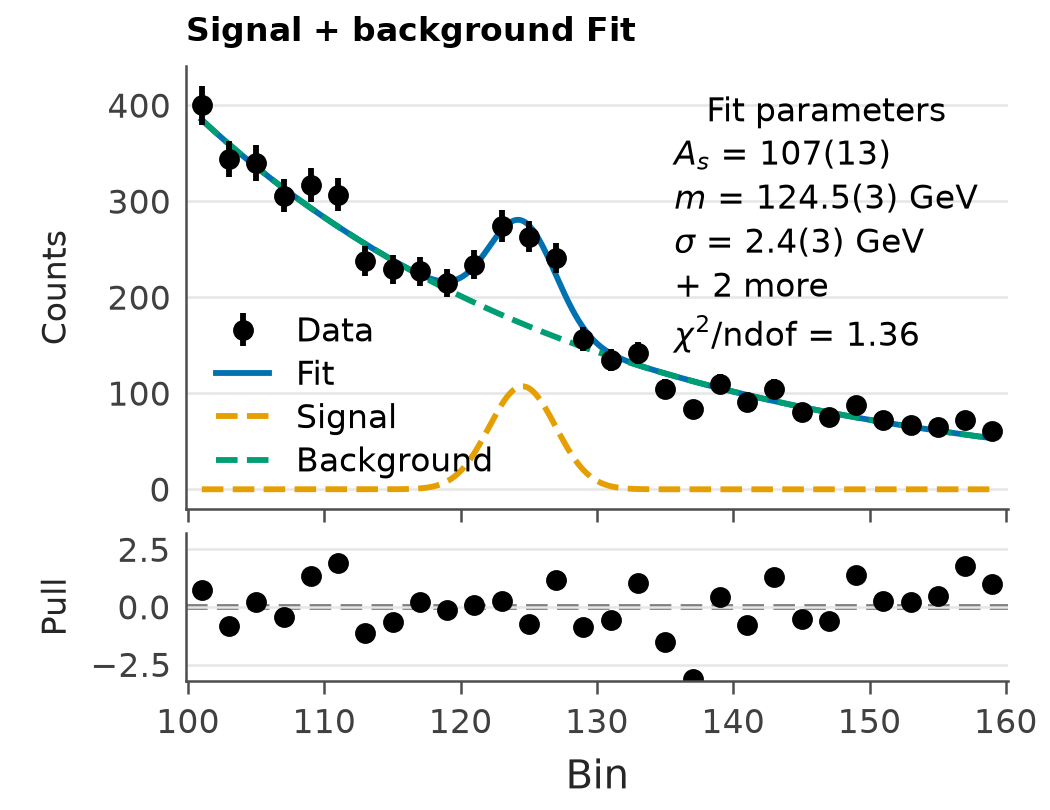
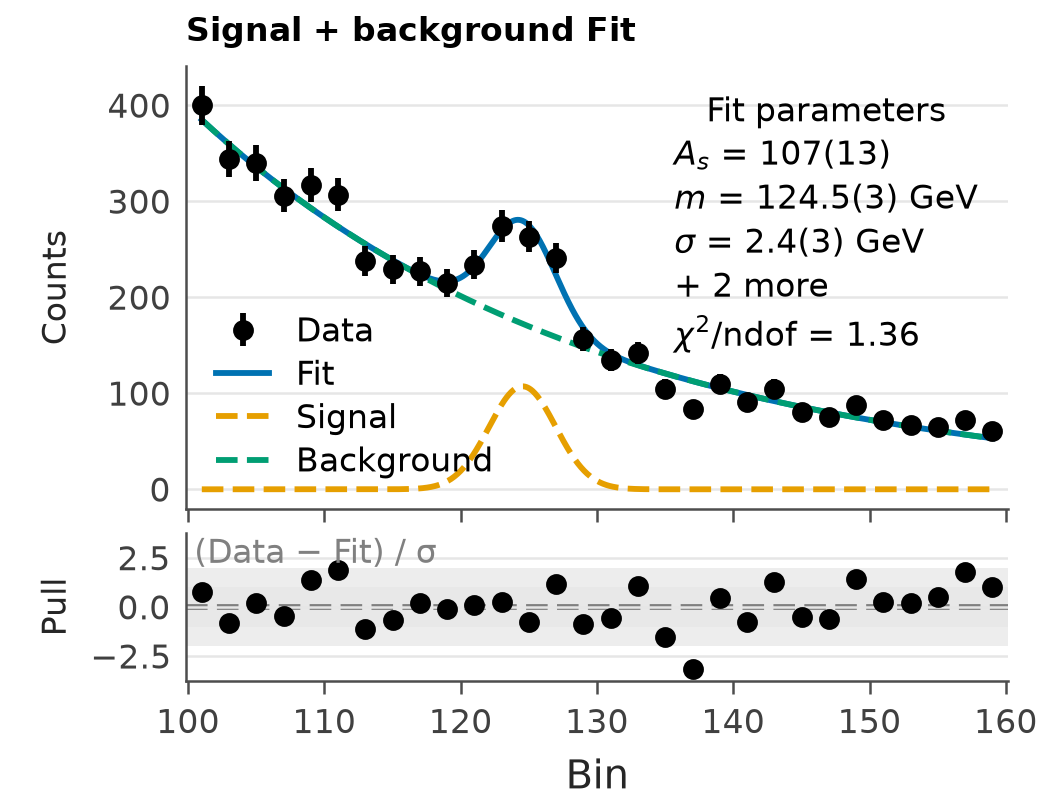
docs/design: re-render the 08_fit sheets after merging T06 and T13; strike both through

diff --git a/docs/design/tasks/00-README.md b/docs/design/tasks/00-README.md
@@ -27,9 +27,9 @@ depends on are merged.
 |---|---|---|
 | 0 | ~~merge `design/examples-and-style` into `main`~~ | every brief links into `docs/design/` |
 | 1 | ~~**T01** colour allocator and palettes~~ | touches every kind; everything else conflicts with it |
-| 2 | ~~T02 contours~~ · ~~T03 estimator errors~~ · ~~T04 hist~~ · ~~T05 scatter hue~~ · T06 fit pull · ~~T07 error display~~ · T08 cat · **T24** famous-plot data (no `src/` changes; can start at wave 0) | disjoint files |
+| 2 | ~~T02 contours~~ · ~~T03 estimator errors~~ · ~~T04 hist~~ · ~~T05 scatter hue~~ · ~~T06 fit pull~~ · ~~T07 error display~~ · T08 cat · **T24** famous-plot data (no `src/` changes; can start at wave 0) | disjoint files |
 | 3 | ~~T09 map colorbars (after T02)~~ · ~~T10 box plots (after T03, T07)~~ · ~~T11 style infrastructure~~ | T09 shares `map.py` with T02; T11 edits colours in every kind |
-| 4 | ~~T12 ticks and output~~ → T13 measured layout | both edit `plot.py`/`panels.py`; in sequence |
+| 4 | ~~T12 ticks and output~~ → ~~T13 measured layout~~ | both edit `plot.py`/`panels.py`; in sequence |
 | 5 | T14 media, widths and themes → T15 legends | both build on T13's layout |
 | 6 | T16 ship the styles → T17 experiments and watermarks | the new defaults land here |
 | 7 | T18 stacking/overlay → T19 Poisson/CP errors · T21 series type → T20 bands and σ lines | the HEP essentials; T18–T21 all edit `line.py`/`plot.py`, so overlap them only with care |
@@ -39,8 +39,8 @@ depends on are merged.
 T̶0̶1̶ ─┬─ T̶0̶2̶ ── T̶0̶9̶
      ├─ T̶0̶3̶ ─┐
      ├─ T̶0̶7̶ ─┴─ T̶1̶0̶
-     ├─ T̶0̶4̶, T̶0̶5̶, T06, T08
-     └─ T̶1̶1̶ ── T̶1̶2̶ ── T13 ── T14 ── T15 ── T16 ── T17
+     ├─ T̶0̶4̶, T̶0̶5̶, T̶0̶6̶, T08
+     └─ T̶1̶1̶ ── T̶1̶2̶ ── T̶1̶3̶ ── T14 ── T15 ── T16 ── T17
                                          └── T18 ── T19, T21 ── T20 ── T22 …
 T24 (independent; open until the famous plots match)   T23 (incremental, after wave 2)
 ```
@@ -106,14 +106,14 @@ Struck through: done and merged into `main`.
 | ~~[T03](T03-estimator-uncertainty.md)~~ | ~~Uncertainties for binned estimators~~ | 2 | M | med |
 | ~~[T04](T04-hist.md)~~ | ~~`hist` edges, range and labels~~ | 2 | S | low |
 | ~~[T05](T05-scatter-hue.md)~~ | ~~`scatter --hue` keeps every group~~ | 2 | S | low |
-| [T06](T06-fit-pull.md) | `--fit` lower panel: residual and pull | 2 | S | low |
+| ~~[T06](T06-fit-pull.md)~~ | ~~`--fit` lower panel: residual and pull~~ | 2 | S | low |
 | ~~[T07](T07-error-display.md)~~ | ~~Bands for every plot type; points not joined~~ | 2 | S | med |
 | [T08](T08-cat.md) | `cat` fixes | 2 | S | low |
 | ~~[T09](T09-map-colorbars.md)~~ | ~~Shared, labelled colorbars~~ | 3 | M | low |
 | ~~[T10](T10-box-plots.md)~~ | ~~Box plots~~ | 3 | S | low |
 | ~~[T11](T11-style-infrastructure.md)~~ | ~~`mplstyle` key and colour roles~~ | 3 | M | low |
 | ~~[T12](T12-ticks-and-output.md)~~ | ~~Tick labels and output resolution~~ | 4 | S | low |
-| [T13](T13-measured-layout.md) | Measured layout | 4 | L | med |
+| ~~[T13](T13-measured-layout.md)~~ | ~~Measured layout~~ | 4 | L | med |
 | [T14](T14-media-widths-themes.md) | Media (slides/paper/web), widths, themes | 5 | L | med |
 | [T15](T15-legends.md) | Legends that never cover data | 5 | M | med |
 | [T16](T16-ship-styles.md) | Ship the styles; `classic` for compatibility | 6 | M | high |
